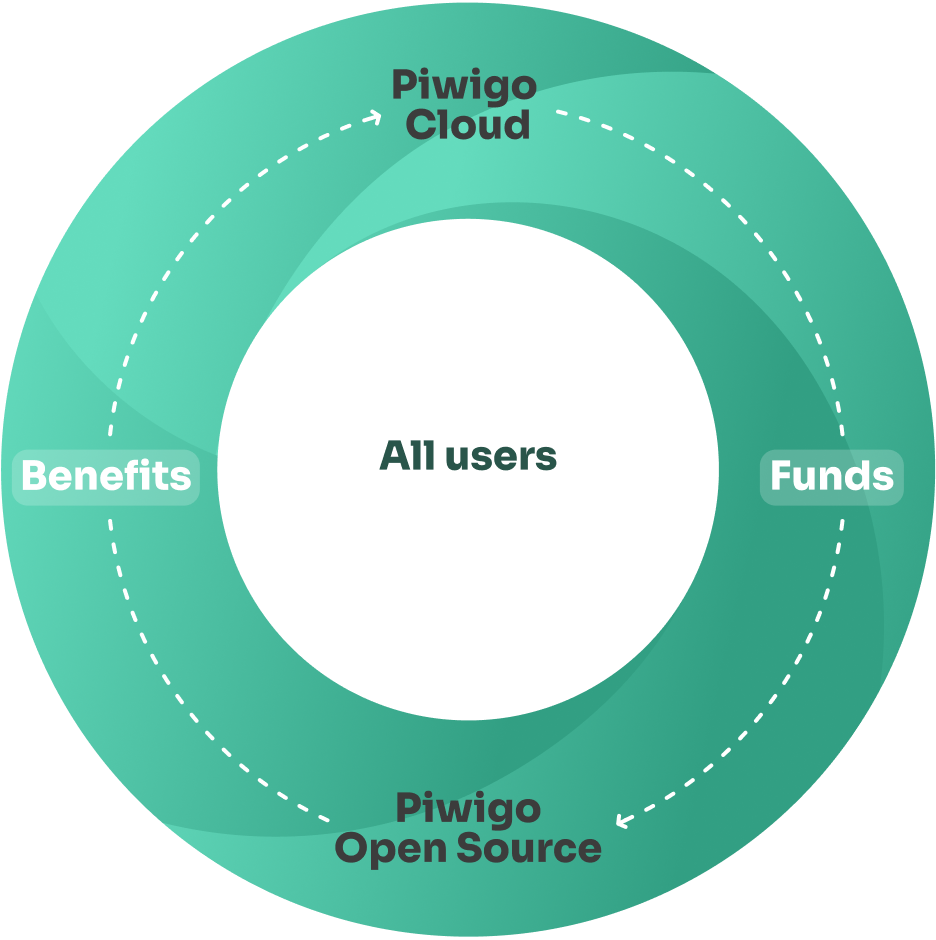
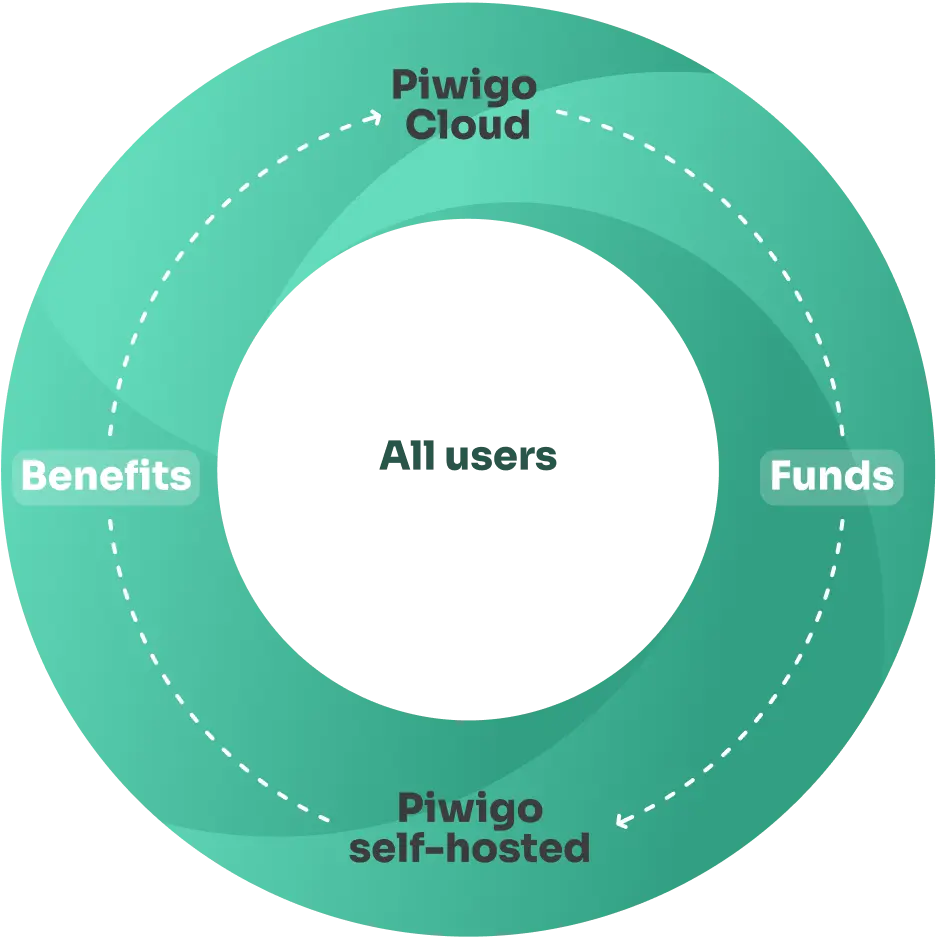
update about-us + some fixes before release

Changed region(s): [[0.3408, 0.833, 0.6506, 0.9255], [0.4647, 0.1234, 0.4957, 0.1543], [0.1549, 0.4936, 0.1859, 0.5245]]

diff --git a/css/pages/about_us.css b/css/pages/about_us.css
@@ -138,10 +138,16 @@
   margin-bottom: 155px;
 }
 
-.container-desc img {
-  max-width: 100%;
+.container-desc .orange-bar {
   height: 180px;
   border-radius: 10px;
+  overflow: hidden;
+}
+
+.container-desc .orange-bar img {
+  width: 100%;
+  height: 100%;
+  object-fit: cover;
 }
 
 .container-desc .glass-card {
@@ -167,13 +173,27 @@
   }
 
   .container-desc .orange-bar {
-    width: 60px;
-    max-width: 60px;
+    width: 80px;
+    max-width: 80px;
+    position: relative;
     margin-left: 20px;
+  }
+
+  .container-desc .orange-bar img {
+    width: 100vh;
+    height: 80px;
+    position: absolute;
+    top: 50%;
+    left: 50%;
+    transform: translate(-50%, -50%) rotate(90deg);
   }
 
   .container-desc {
     margin-bottom: 130px;
+  }
+
+  .container-beginning {
+    padding: 50px 20px;
   }
 }
 
@@ -286,6 +306,33 @@
 
 .person-card-btn i {
   font-size: 20px;
+}
+
+@media (max-width: 768px) {
+  .person-card-actions {
+    padding: 0 10px;
+  }
+
+  .person-card-content {
+    padding: 15px 12px 20px;
+  }
+
+  .person-card-image {
+    height: 160px;
+    min-height: 160px;
+  }
+
+  .person-card-btn {
+    padding: 6px;
+  }
+
+  .person-card {
+    padding-bottom: 12px;
+  }
+
+  .person-card p {
+    margin: 0;
+  }
 }
 
 .container-team .col-md-10 .col-lg-3 {
@@ -518,23 +565,15 @@
 }
 
 .timeline-item.active .timeline-segment-line {
-  background: linear-gradient(to right, 
-    var(--main_flash_green) 0%, 
-    var(--accent_green) 50%, 
-    var(--main_flash_green) 100%);
+  background: linear-gradient(to right, var(--main_flash_green) 0%, var(--accent_green) 50%, var(--main_flash_green) 100%);
 }
 
 .timeline-item.active:first-child .timeline-segment-line {
-  background: linear-gradient(to right, 
-    var(--accent_green) 0%, 
-    var(--main_flash_green) 100%);
+  background: linear-gradient(to right, var(--accent_green) 0%, var(--main_flash_green) 100%);
 }
 
 .timeline-item.active:last-child .timeline-segment-line {
-  background: linear-gradient(to right, 
-    var(--main_flash_green) 0%,
-    var(--accent_green) 15%,
-    var(--main_flash_green) 40%);
+  background: linear-gradient(to right, var(--main_flash_green) 0%, var(--accent_green) 15%, var(--main_flash_green) 40%);
 }
 
 /* Pagination */